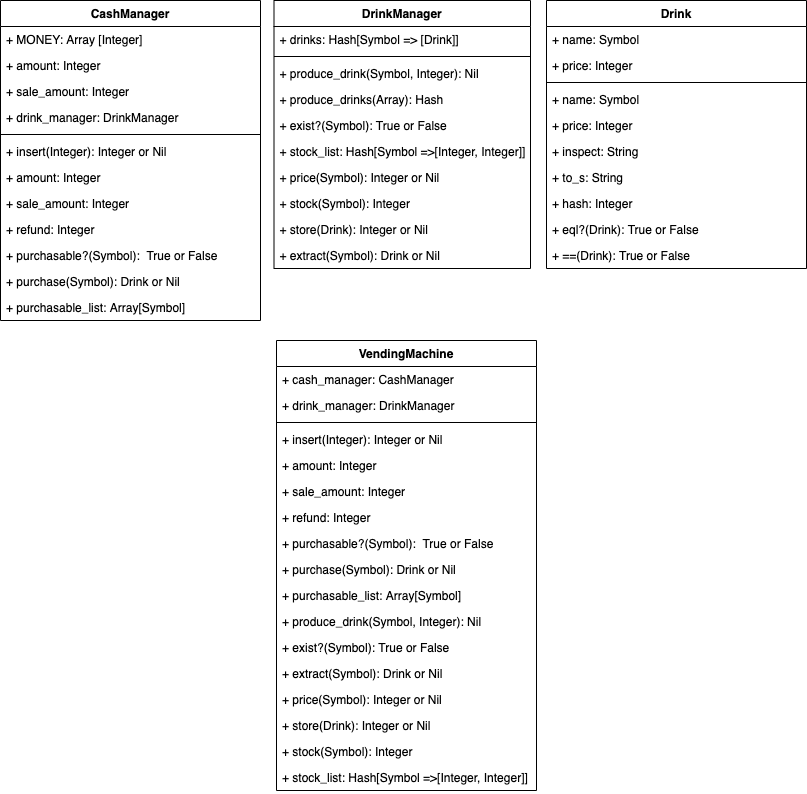
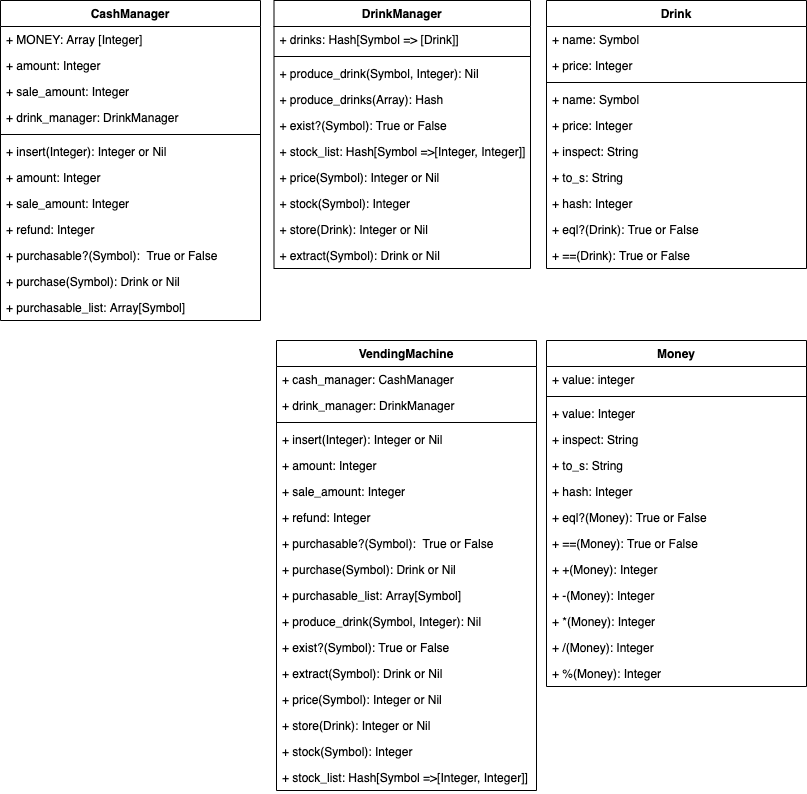
add:moneyクラス作成。まだ、CashManager修正していない

diff --git a/lib/money_test.rb b/lib/money_test.rb
@@ -1,0 +1,58 @@
+require "minitest/autorun"
+require_relative "../lib/money"
+
+class MoneyTest < Minitest::Test
+  def setup
+    @c100 = Money.new(:c, 100)
+    @b1000 = Money.new(:b, 1000)
+  end
+
+  def test_inspect
+    assert_equal "Money.c100", @c100.inspect
+  end
+  def test_to_s
+    assert_equal "Money.c100", @c100.to_s
+  end
+
+  def test_eql_when_same_money_and_same_class
+    assert @c100.eql?(Money.new(:c, 100))
+  end
+
+  def test_eql_when_different_Money_and_same_class
+    refute @c100.eql?(Money.new(:c, 10))
+  end
+
+  def test_eql_when_different_Money_and_different_class
+    refute @c100.eql?(:c100)
+  end
+
+  def test_equal_when_same_Money_and_same_class
+    assert @c100 == Money.new(:c, 100)
+  end
+
+  def test_equal_when_different_Money_and_same_class
+    refute @c100 == Money.new(:c, 10)
+  end
+
+  def test_eql_when_different_Money_and_different_class
+    refute @c100 == :c100
+  end
+
+  def test_minus_when_same_class
+    assert_equal 900, @b1000 - @c100
+  end
+
+  def test_slush_when_same_class
+    assert_equal 1100, @b1000 / @c100
+  end
+
+  def test_asterisk_when_same_class
+    assert_equal 100000, @b1000 * @c100
+  end
+
+  def test_percent_when_same_class
+    assert_equal 0, @b1000 % @c100
+  end
+
+
+end

diff --git a/lib/money.rb b/lib/money.rb
@@ -1,0 +1,55 @@
+class Money
+  attr_reader :value, :material
+
+  def initialize(material, value)
+    @material = material
+    @value = value
+  end
+
+  def inspect
+    "Money.#{material}#{value}"
+  end
+
+  def to_s
+    "Money.#{material}#{value}"
+  end
+
+  def hash
+    to_s.hash
+  end
+
+  def eql?(other)
+    other.instance_of?(Money) && value.eql?(other.value) && to_s.eql?(other.to_s)
+  end
+
+  def ==(other)
+    other.is_a?(Money) && value == other.value
+  end
+
+  def +(other)
+    self.value + other.value if other.is_a?(Money)
+  end
+
+  def -(other)
+    value - other.value if other.is_a?(Money)
+  end
+
+  def *(other)
+    value * other.value if other.is_a?(Money)
+  end
+
+  def /(other)
+    value / other.value if other.is_a?(Money)
+  end
+
+  def %(other)
+    value % other.value if other.is_a?(Money)
+  end
+
+  def self.produce_money(material, value)
+    method = "#{material}#{value}"
+    define_method(method) do |material, value|
+      self.new(material, value)
+    end
+  end
+end

diff --git a/test/drink_test.rb b/test/drink_test.rb
@@ -16,9 +16,11 @@ class DrinkTest < Minitest::Test
   def test_eql_when_same_drink_and_same_class
     assert @coke.eql?(Drink.new(:coke, 120))
   end
+
   def test_eql_when_different_drink_and_same_class
     refute @coke.eql?(Drink.new(:water, 100))
   end
+
   def test_eql_when_different_drink_and_different_class
     refute @coke.eql?(:coke)
   end
@@ -26,9 +28,11 @@ class DrinkTest < Minitest::Test
   def test_equal_when_same_drink_and_same_class
     assert @coke == Drink.new(:coke, 120)
   end
+
   def test_equal_when_different_drink_and_same_class
     refute @coke == Drink.new(:water, 100)
   end
+
   def test_eql_when_different_drink_and_different_class
     refute @coke == :coke
   end

diff --git a/lib/cash_manager.rb b/lib/cash_manager.rb
@@ -1,4 +1,5 @@
 require_relative "drink_manager"
+require_relative "money"
 
 class CashManager
   attr_reader :amount, :sale_amount
@@ -41,5 +42,13 @@ class CashManager
 
   def purchasable_list
     @drink_manager.stock_list.keys.select{|name| purchasable?(name)}
+  end
+
+  private
+  def self.produce_all_money
+    [[:c, 1], [:c, 5], [:c, 10], [:c, 50],
+    [:c, 100], [:c, 500], [:b, 1000],
+    [:b, 2000], [:b, 5000], [:b, 10000]].each do |value, material|
+      Money.produce_money(value, material)
   end
 end
